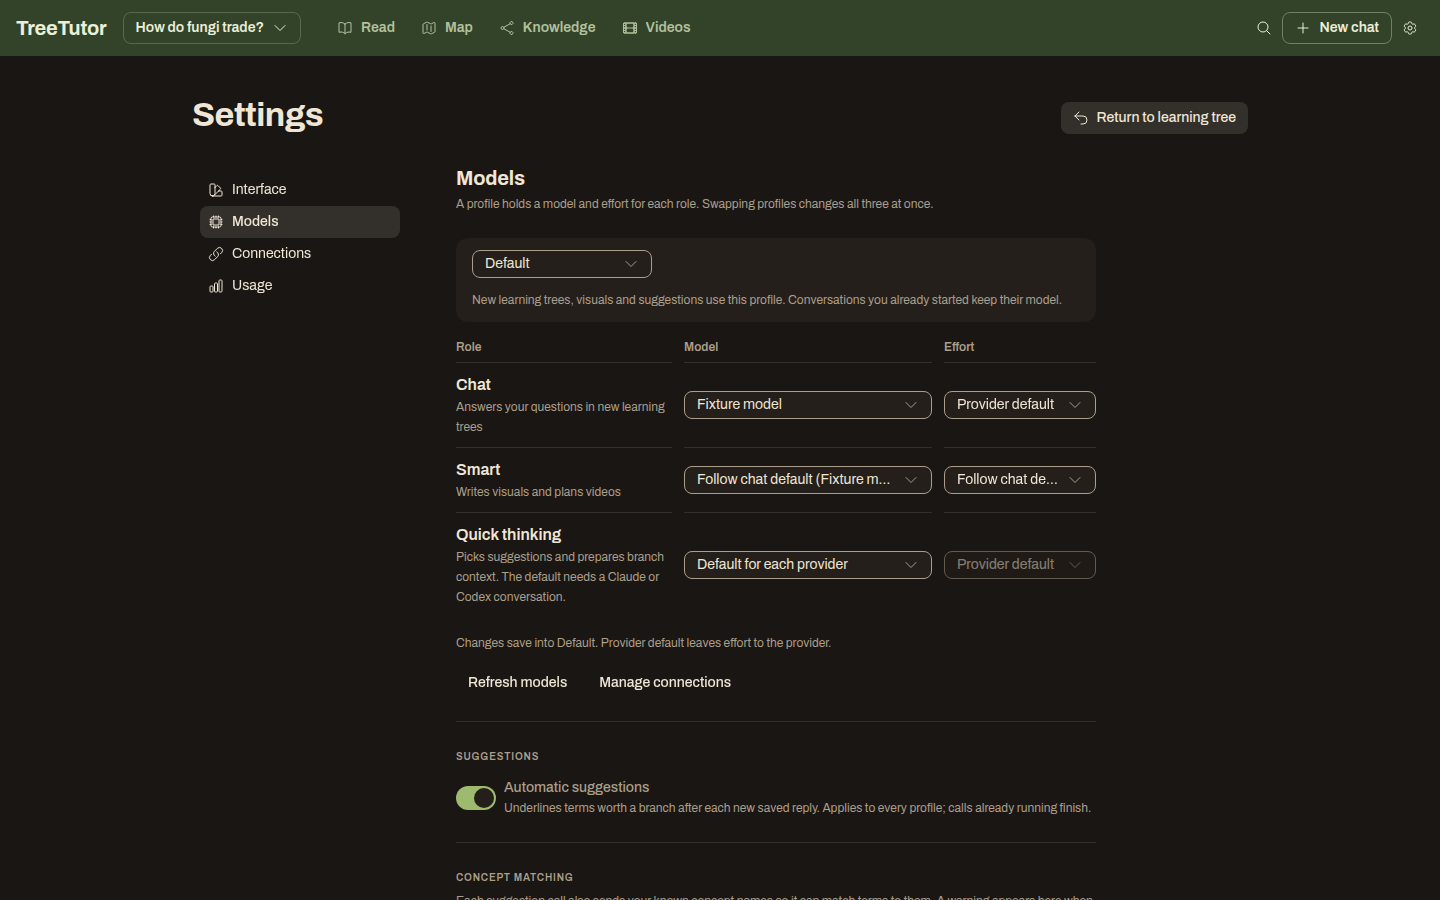
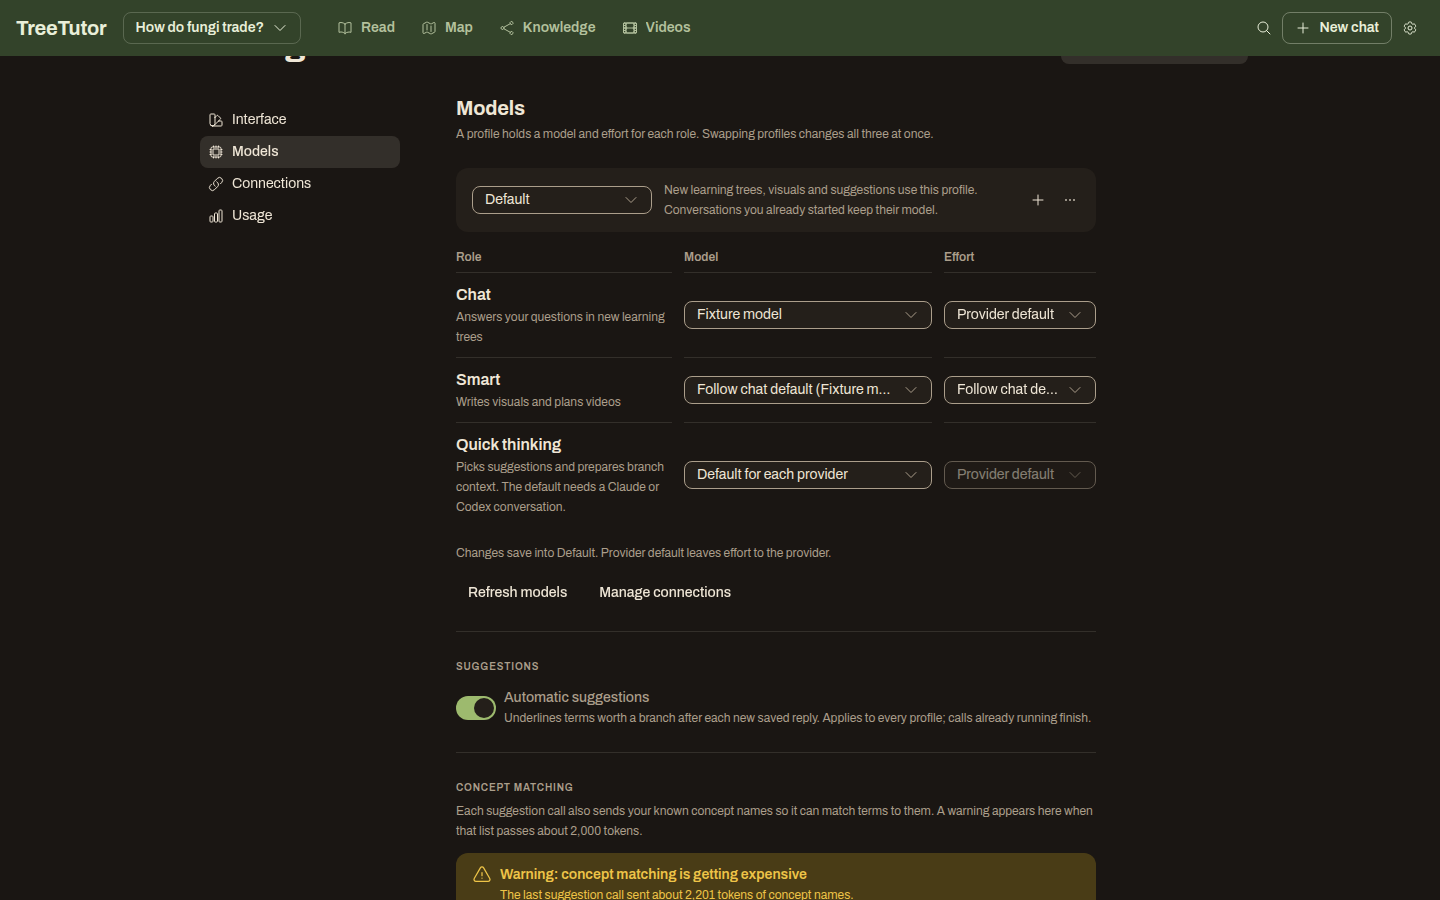
task: TreeTutor-2li.10 Manage profiles

diff --git a/src/ModelProfiles.tsx b/src/ModelProfiles.tsx
@@ -4,6 +4,10 @@ import { Text } from '@astryxdesign/core/Text';
 import { Selector } from '@astryxdesign/core/Selector';
 import { Switch } from '@astryxdesign/core/Switch';
 import { Button } from '@astryxdesign/core/Button';
+import { IconButton } from '@astryxdesign/core/IconButton';
+import { TextInput } from '@astryxdesign/core/TextInput';
+import { DropdownMenu, DropdownMenuDivider, DropdownMenuItem } from '@astryxdesign/core/DropdownMenu';
+import { EllipsisHorizontalIcon, PencilSquareIcon, PlusIcon, RectangleStackIcon, TrashIcon } from '@heroicons/react/24/outline';
 import type { Model, ChatSelection } from './models';
 
 type Pin = Pick<Model, 'provider' | 'model'> | null;
@@ -22,12 +26,16 @@ export default function ModelProfiles({ api, models, providers, modelError, relo
 }) {
   const [list, setList] = useState<{ active: string; profiles: Profile[] }>();
   const [pending, setPending] = useState(false), [error, setError] = useState(''), [refreshing, setRefreshing] = useState(false);
-  async function run(task: Promise<{ active: string; profiles: Profile[] }>) {
+  // Naming state: the picker becomes a name field for a new profile or a rename of the active one.
+  const [naming, setNaming] = useState<{ mode: 'new' | 'rename'; name: string }>();
+  async function run(task: Promise<{ active: string; profiles: Profile[] }>, then?: (list: { active: string; profiles: Profile[] }) => Promise<{ active: string; profiles: Profile[] }>) {
     setPending(true); setError('');
-    try { setList(await task); }
+    try { const next = await task; setList(then ? await then(next) : next); setNaming(undefined); }
     catch (e) { setError((e as Error).message); }
     finally { setPending(false); }
   }
+  // New and Duplicate switch to the created profile (always listed last) so the next edits land in it.
+  const activateNewest = (next: { active: string; profiles: Profile[] }) => api('/api/profiles/active', { id: next.profiles.at(-1)!.id });
   async function refresh() {
     setRefreshing(true);
     try { await reloadModels(); } finally { setRefreshing(false); }
@@ -41,11 +49,32 @@ export default function ModelProfiles({ api, models, providers, modelError, relo
   };
   const summary = (p: Profile) => [name(p.chat), p.smart.model ? name(p.smart.model) : 'follows chat', p.quick.model ? name(p.quick.model) : 'default quick thinking'].join(' · ');
   const active = list?.profiles.find(p => p.id === list.active);
+  function save() {
+    const name = naming?.name.trim();
+    if (!name || !list || pending) return;
+    if (naming!.mode === 'rename') void run(api(`/api/profiles/${list.active}/rename`, { name }));
+    else void run(api('/api/profiles', { name }), activateNewest);
+  }
+  function cancel() { setNaming(undefined); setError(''); }
   return <VStack gap={4}>
     <HStack className="settings-profile" gap={3} vAlign="center" wrap="wrap">
-      <Selector label="Model profile" isLabelHidden value={list?.active ?? ''} size="sm" isDisabled={!list || pending} options={(list?.profiles ?? []).map(p => ({ value: p.id, label: p.name, description: summary(p) }))}
-        onChange={id => { if (id !== list?.active) void run(api('/api/profiles/active', { id })); }} />
-      <Text type="supporting" color="secondary">New learning trees, visuals and suggestions use this profile. Conversations you already started keep their model.</Text>
+      {naming ? <HStack gap={2} vAlign="center">
+        <TextInput label="Profile name" isLabelHidden size="sm" value={naming.name} onChange={name => setNaming({ ...naming, name })} isReadOnly={pending} autoComplete="off" hasAutoFocus
+          onEnter={() => save()} onKeyDown={e => { if (e.key === 'Escape') { e.stopPropagation(); cancel(); } }} />
+        <Button label="Save" size="sm" variant="primary" isDisabled={!naming.name.trim() || pending} isLoading={pending} onClick={() => save()} />
+        <Button label="Cancel" size="sm" isDisabled={pending} onClick={cancel} />
+      </HStack> : <Selector label="Model profile" isLabelHidden value={list?.active ?? ''} size="sm" isDisabled={!list || pending} options={(list?.profiles ?? []).map(p => ({ value: p.id, label: p.name, description: summary(p) }))}
+        onChange={id => { if (id !== list?.active) void run(api('/api/profiles/active', { id })); }} />}
+      <Text className="settings-profile__note" type="supporting" color="secondary">New learning trees, visuals and suggestions use this profile. Conversations you already started keep their model.</Text>
+      {list && !naming && <HStack gap={1}>
+        <IconButton label="New profile" tooltip="New profile" icon={<PlusIcon />} variant="ghost" size="sm" isDisabled={pending} onClick={() => { setError(''); setNaming({ mode: 'new', name: '' }); }} />
+        <DropdownMenu presentation="popover" alignment="end" renderTrigger={props => <IconButton {...props} label="Profile actions: rename, duplicate, delete" tooltip="Profile actions" icon={<EllipsisHorizontalIcon />} variant="ghost" size="sm" isDisabled={pending} />}>
+          <DropdownMenuItem icon={PencilSquareIcon} label="Rename" onClick={() => { setError(''); setNaming({ mode: 'rename', name: active?.name ?? '' }); }} />
+          <DropdownMenuItem icon={RectangleStackIcon} label="Duplicate" onClick={() => void run(api(`/api/profiles/${list.active}/duplicate`, {}), activateNewest)} />
+          <DropdownMenuDivider />
+          <DropdownMenuItem icon={TrashIcon} label={`Delete ${active?.name ?? 'profile'}`} description={list.profiles.length < 2 ? 'Keep at least one profile' : undefined} isDisabled={list.profiles.length < 2} onClick={() => void run(api(`/api/profiles/${list.active}/delete`, {}))} />
+        </DropdownMenu>
+      </HStack>}
     </HStack>
     {error && <Text type="supporting" role="alert">{error}</Text>}
     {!list && !pending && <HStack><Button label="Retry loading profiles" size="sm" variant="ghost" onClick={() => void run(api('/api/profiles'))} /></HStack>}

diff --git a/src/layout.ts b/src/layout.ts
@@ -466,6 +466,7 @@ section[role=alert] { background: var(--color-background-body); }
 /* Models page (mockup Models): profile bar, then one compact row per role; display: contents keeps ARIA rows inside the grid. */
 .settings-profile { padding: var(--spacing-3) var(--spacing-3) var(--spacing-3) var(--spacing-4); border-radius: var(--radius-container); background: var(--color-background-surface); }
 .settings-profile .astryx-selector, .settings-profile > :first-child { min-width: 180px; }
+.settings-profile__note { flex: 1 1 16rem; }
 .settings-roles { display: grid; grid-template-columns: minmax(0, 1fr) 248px 152px; column-gap: var(--spacing-3); }
 .settings-roles [role=cell]:not(.settings-roles__note) { display: flex; align-items: center; }
 .settings-roles__row { display: contents; }
